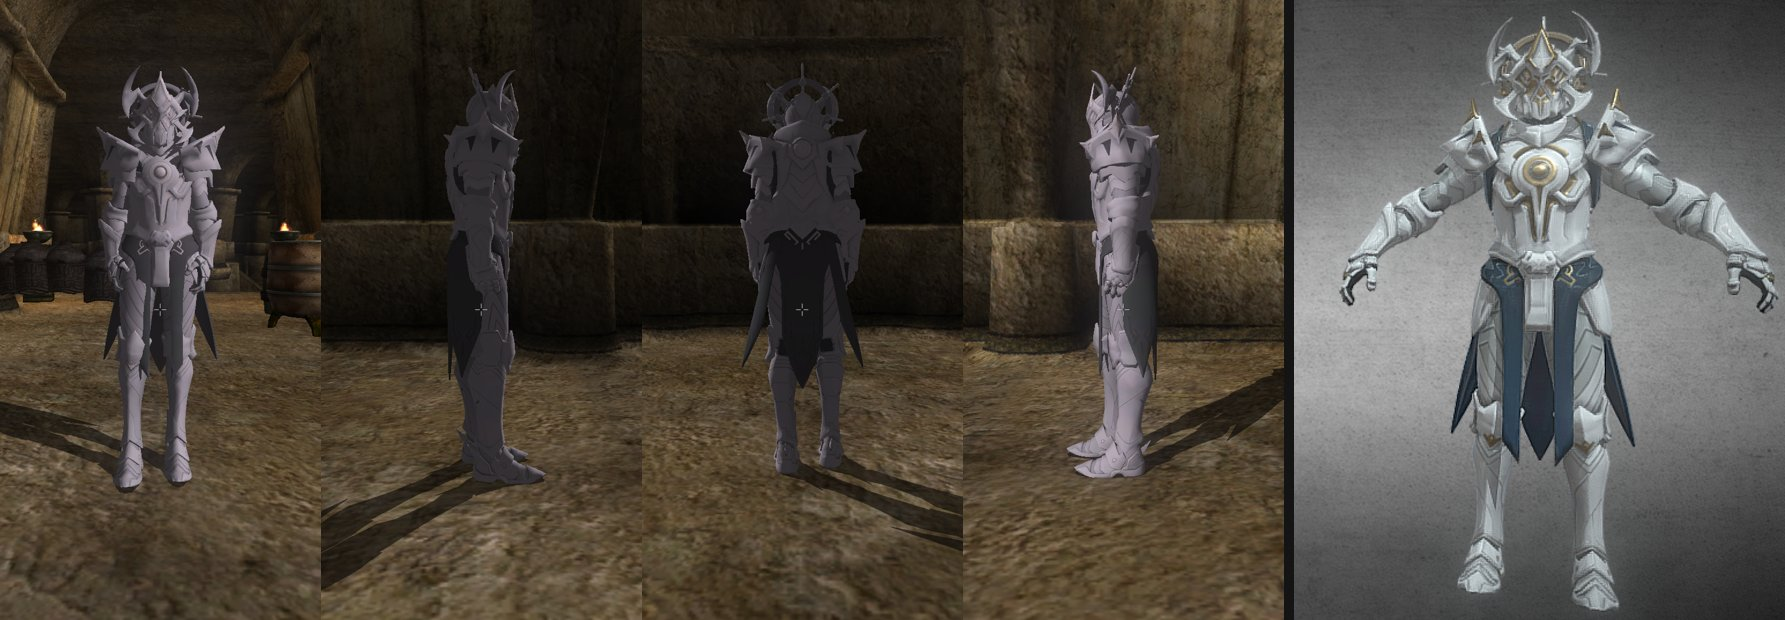
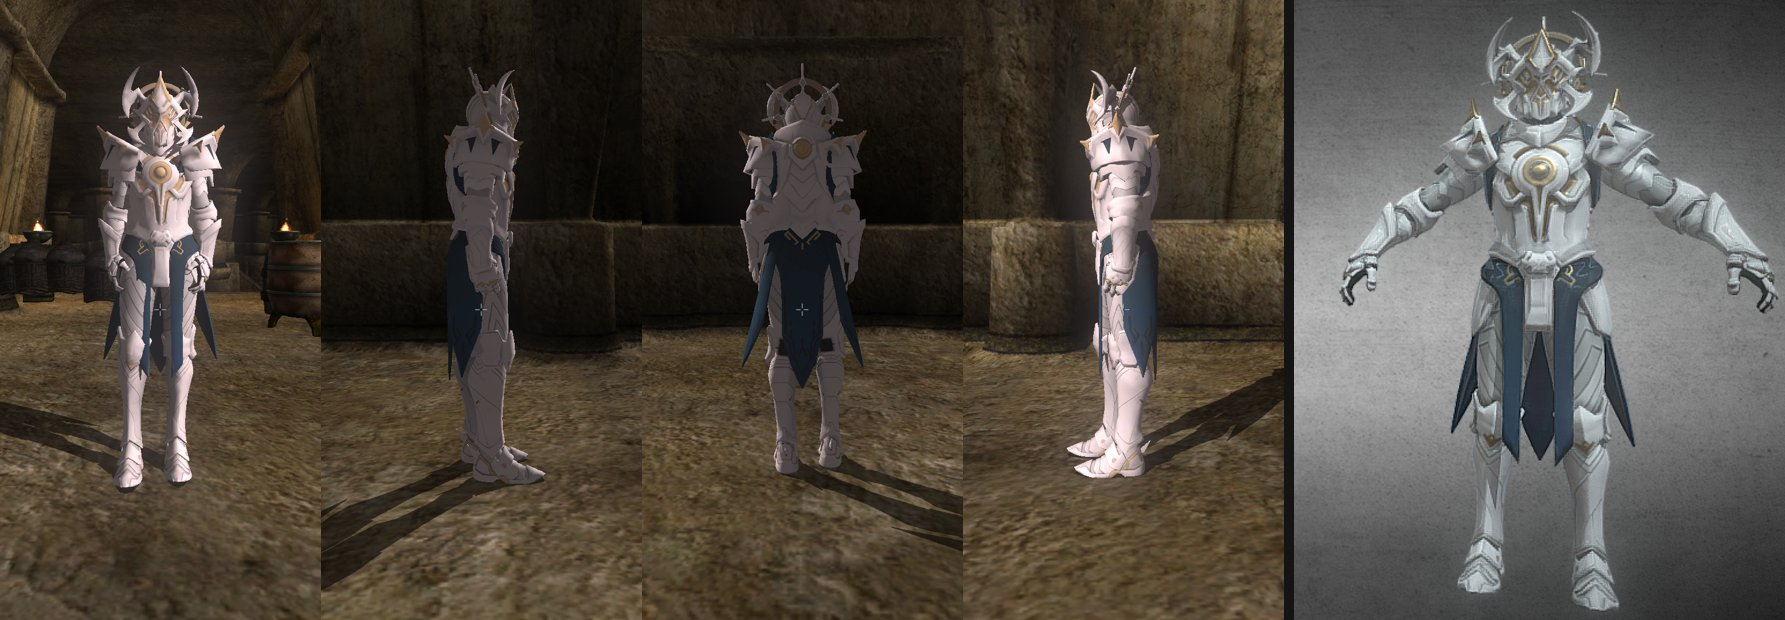
Armour import instructions; ship the model's own colours

diff --git a/docs/Armour_Import_Instructions.md b/docs/Armour_Import_Instructions.md
@@ -1,0 +1,138 @@
+# Инструкция по импорту брони - Armour import instructions
+
+For Claude sessions. How to put a downloaded, rigged 3D suit into Morrowind
+(OpenMW 0.51) in place of an armour set, without guessing. Written 2026-09-15
+after the Ageless Armor import finally sat on screen. Everything here was
+measured or read from the engine's source; the old route's failures are listed
+so nobody repeats them.
+
+Branch: `new-armor` (worktree `D:\Work\Morrowind reborn armor`). Never master
+unless Faig says so explicitly.
+
+---
+
+## 1. What you need from the download
+
+- **GLB (glTF binary), rigged and skinned.** One file with geometry, UVs,
+  base-colour images, joints, weights and inverse bind matrices. Ask for GLB.
+- A humanoid rig with recognisable bone names (`pelvis`, `spine_0N`,
+  `clavicle_l`, `upperarm_l`, `lowerarm_l`, `hand_l`, `thigh_l`, `calf_l`,
+  `foot_l`, `neck_01`, `head`). Other rigs: extend `TWIN`/`AIM` in
+  `fit_suit.py` and `SLOTS` in `glb_bodyparts.py`.
+- The licence. Record it in `CREDITS.md` before anything is published.
+
+`.nif` is a family, not a format: only 4.0.0.2 is Morrowind.
+
+## 2. The engine facts everything rests on
+
+Read from OpenMW 0.51 source (`components/sceneutil/attach.cpp`,
+`apps/openmw/mwrender/npcanimation.cpp`), not recalled:
+
+1. Each biped slot hangs its bodypart under a named node of `base_anim.nif`:
+   `Head`, `Neck`, `Chest`, `Groin`, `Right/Left Clavicle`, `... Upper Arm`,
+   `... Forearm`, `... Wrist`, `... Hand`, `... Upper Leg`, `... Knee`,
+   `... Ankle`, `... Foot`.
+2. **Rigid part on a node whose name contains `Left`: the engine inserts
+   scale (-1, 1, 1) between node and part.** The `Right` nodes are exactly the
+   mirror of the `Left` ones composed with that scale (measured). So author a
+   piece once, in the `Right` node's frame, and the engine makes the left one.
+   Ignoring this is what made arms grow *up* from the shoulder for a whole day.
+3. A `BoneOffset` node inside a rigid part moves it by its translation.
+4. **Skinned part** (file contains a skeleton + NiSkinInstance): not attached
+   to a node and never mirrored; shapes named `Tri <slot>...` are bound to the
+   actor's bones by name. Vanilla cuirasses are all skinned.
+5. An armour record only shows a slot it lists. Vanilla Daedric greaves have
+   no `Knee`, gauntlets no `Forearm`: the naked body part is drawn there
+   (bare brown knees). Add the slots (`bodyparts.EXTRA_SLOTS`).
+
+## 3. The route (commands)
+
+    set G=<path to model.glb>
+    python tools/scripts/model_textures.py %G% --write --out tools/build/armour-vanilla/Textures [--zenar]
+    python tools/scripts/fit_suit.py %G% --write --out tools/build/armour-vanilla [--paint]
+    python tools/scripts/transform.py --profile vanilla --import-armour --write
+    tools/bin/tes3conv.exe tools/build/scifi-rewrite.json tools/build/scifi-rewrite.esp
+    powershell -File tools/scripts/fitcheck.ps1 [-LoadSeconds 55]
+
+- `model_textures.py`: author's base colours as DDS (`zenar_body.dds`,
+  `zenar_helm.dds`). `--zenar` recolours to the conversion palette. Faig chose
+  the **original colours** on 2026-09-15.
+- `fit_suit.py`: pose + cut + write + read-back check + preview
+  (`tools/reports/suit-preview.png`, drawn by the engine's rules, both sides).
+  Look at the preview before launching anything.
+- `transform.py --import-armour`: bodypart records and repointed armour
+  records. For the play profile use `--profile momw` and its out dir.
+- `fitcheck.ps1`: dev profile, ToddTest, no sound, dresses the player,
+  static camera front/side/back/side, 8 F12 shots, one sheet
+  `tools/reports/fitcheck.jpg`, closes the game by pid.
+
+## 4. How `fit_suit.py` places a piece
+
+1. Model axes to game: `(-x, z, y)`; model Y-up facing +Z, game Z-up facing
+   +Y, model left (+X) is game left (-X).
+2. One global scale: Bip01 Head-to-foot height over the model's.
+3. Pose into `base_anim.nif` rest pose. Mapped limb bones (clavicle, upper
+   arm, forearm, hand, thigh, calf) are **swung, never twisted** onto the
+   Morrowind bone direction; heads snap to Bip01 joint positions; unmapped
+   bones (twist, deform, cloth, fingers) ride their nearest mapped ancestor.
+   Vertices follow by the model's own weights. A-pose palms that faced down
+   end up facing the thighs.
+4. Slot = dominant joint, walking up the hierarchy for bones with no slot.
+   Calf splits into knee/ankle at half height. Neck folds into chest; any
+   helmet-primitive triangles go to the head (one sheet per shape).
+5. Grow each piece one triangle ring into its neighbours (hides seams), write
+   both facings (open shells otherwise show the room).
+6. Local = inverse of the `Right` node frame, then inverse of the donor's own
+   node chain (root node(s) + NiTriShape transform). Donors must be rigid and
+   single-shape (vanilla naked body parts, Daedric pauldron/boot).
+7. Read the written NIF back, compose as the engine does, stop if off by more
+   than 1e-3.
+
+## 5. Looking at the result
+
+- **Diagnostic paint first** (`--paint`): each slot its own colour, right side
+  warm, left cool, F-glyph grid (a mirrored piece reads backwards), emissive
+  material so dark rooms and busy backgrounds do not matter. Left pieces get
+  `_l` records only to carry the cool colour.
+- **Several candidates in one launch**: put each on a different vanilla armour
+  record covering the same slots (read slots with esmtool), not one restart
+  per guess.
+- **F12 is the truth.** game-control's window grab returned stale frames for
+  minutes. `shot.ps1` presses F12; the dev profile writes screenshots where the
+  log's `Screenshots dir:` line says (currently the old OneDrive path).
+- **Mouse turns the character in the dev profile**, not the camera
+  (`deferredPreviewRotation` differs from play). Idle orbit is cancelled by any
+  input, F12 included. Use the static camera in `tools/viewer/`.
+- **Console key does not arrive under a Russian layout.** Use
+  `--script-run tools/viewer/equip.txt` instead of typing.
+- Close the game as soon as a round is done, **by pid, never by image name**
+  (Faig may have his own copy open). The game and a local model share 6 GB of
+  VRAM: unload models before launching, look at screenshots after closing.
+- Local vision model gives a first look only; it once called a helmet
+  "simple, no horns" because the crop cut it off. Verify on a downscaled sheet.
+- When Faig's opinion is needed, send the screenshots into the chat
+  (SendUserFile); he may be away from the PC.
+
+## 6. Things that went wrong before, and why
+
+| Symptom on screen | Cause |
+| --- | --- |
+| Arms 30-70 % too high, fingers up, hands swapped | Pieces authored in `Left` node frames without the engine's X mirror |
+| Torso a blade reaching the floor | Geometry put into a *skinned* donor with stale weights |
+| Suit scattered, each piece its own size | Fitting to donor bounding boxes |
+| 9 % of vertices missing, floor visible through torso | Bones with no slot dropped instead of inheriting the parent's |
+| No helmet / no collar | Only the first skinned primitive was read |
+| Holes showing the room | One-sided faces on open shells |
+| Rebuild silently lost renames | The build scanned its own installed plugin |
+| Bare knees, missing forearms | Vanilla records lack Knee / Forearm slots |
+| Thigh lying across hips in a preview | Ignoring the NiTriShape's own transform |
+
+## 7. Open
+
+- Chest is rigid on `Chest`. If it separates from the body in motion, make it
+  skinned: map the model's joints to Bip01 names, at most 3-4 weights per
+  vertex, write NiSkinInstance/NiSkinData on the pattern of a vanilla cuirass,
+  shape name `Tri Chest`. Blender (io_scene_mw) is the fallback; not installed.
+- Only checked standing. Walk, run and combat poses are unverified.
+- `build_armour_set.py` is superseded; delete it once `fit_suit.py` has served
+  a second model.

diff --git a/CLAUDE.md b/CLAUDE.md
@@ -521,7 +521,9 @@ version of this; the grid extends them from one axis to two.
   candidates at it with `--texture`. The model's own atlas goes back on once
   the fit is settled.
 
-## The imported suit, fitted by the skeleton - `SITS ON SCREEN 2026-09-15, AWAITING FAIG`
+## The imported suit, fitted by the skeleton - `SITS ON SCREEN 2026-09-15, ORIGINAL COLOURS`
+
+Full guide for any future import: `docs/Armour_Import_Instructions.md`.
 
 **`fit_suit.py` replaces `build_armour_set.py`'s placement.** No box fitting,
 no screen-correction tables. The cause of every arm and hand round was one
@@ -535,7 +537,7 @@ dominant bone, write each piece in its `Right` node's frame through the donor's
 node chain, read it back (error 4e-6), let the engine mirror the left. Draws
 `tools/reports/suit-preview.png` as the engine would assemble it.
 
-    python tools/scripts/model_textures.py <glb> --zenar --write --out tools/build/armour-vanilla/Textures
+    python tools/scripts/model_textures.py <glb> --write --out tools/build/armour-vanilla/Textures   # author colours, Faig 2026-09-15
     python tools/scripts/fit_suit.py <glb> --write --out tools/build/armour-vanilla [--paint]
     python tools/scripts/transform.py --profile vanilla --import-armour --write
     tools/bin/tes3conv.exe tools/build/scifi-rewrite.json tools/build/scifi-rewrite.esp
